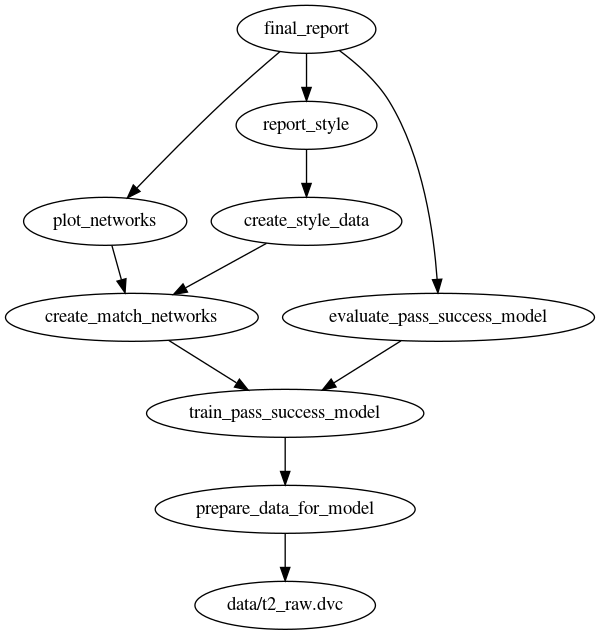
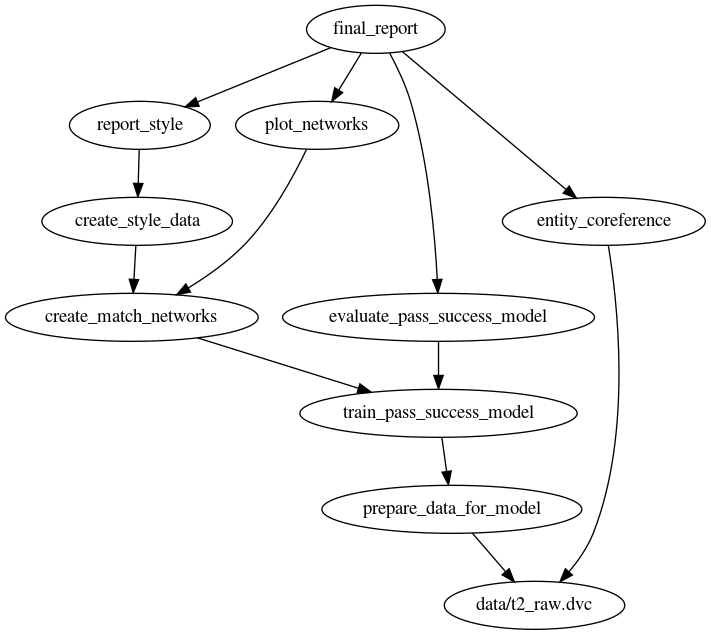
init entity coref element

diff --git a/src/final_report.py b/src/final_report.py
@@ -10,12 +10,11 @@ from .pass_success_model.evaluate_model import (
 )
 from .network.present_network import plot_network_pe, network_plot_dir
 from .style.report_style_vars import report_style_pe, ExportedFiles
+from .entity_coreference.run_entity_coreference import coref_example_table_fp, coref_pe
 
 link_base = "https://github.com/endremborza/football-data-research/blob/main/{}#L{}"
 
-
 network_fps = glob.glob(network_plot_dir + "*.svg")
-
 
 figure_dir = os.path.join("reports", "figures")
 out_file = os.path.join("reports", "main_report.md")
@@ -35,17 +34,24 @@ def export_report():
         "result_of_sample_match",
         "style_agged",
         "under_probit",
-        "over_probit"
+        "over_probit",
     ]
     style_table_dic = {k: open(getattr(ExportedFiles, k)).read() for k in style_tables}
     metric_table_str = open(metric_table_fp).read()
+    coref_table_str = open(coref_example_table_fp).read()
 
     with open(frame_fp) as fp:
         report_frame = fp.read()
 
     with open(out_file, "w") as fp:
         fp.write(
-            report_frame.format(**{**style_table_dic, "metric_table": metric_table_str})
+            report_frame.format(
+                **{
+                    **style_table_dic,
+                    "metric_table": metric_table_str,
+                    "coref_table": coref_table_str,
+                }
+            )
         )
 
     dag_base = "\n".join(
@@ -65,6 +71,7 @@ report_pe = PipelineElement(
         eval_pass_model_pe,
         plot_network_pe,
         report_style_pe,
+        coref_pe,
         "reports/main_report_frame.md",
     ],
     out_nonchache=figure_dir,

diff --git a/src/entity_coreference/run_entity_coreference.py b/src/entity_coreference/run_entity_coreference.py
@@ -1,0 +1,23 @@
+import os
+
+from ..data_loaders import t2_dir
+from ..dvc_util import PipelineElement
+
+
+entity_coreference_report_dir = os.path.join("reports", "entity_coreference")
+coref_example_table_fp = os.path.join(entity_coreference_report_dir, "eg_table.html")
+
+
+def dump_ecref():
+    os.makedirs(entity_coreference_report_dir, exist_ok=True)
+    with open(coref_example_table_fp, "w") as fp:
+        ...
+    # TODO
+
+
+coref_pe = PipelineElement(
+    name="entity_coreference",
+    runner=dump_ecref,
+    output_path=entity_coreference_report_dir,
+    dependency_list=[t2_dir],
+)

diff --git a/src/__init__.py b/src/__init__.py
@@ -6,4 +6,5 @@ from .pass_success_model.prepare_data_for_modelling import prep_pass_model_pe
 from .pass_success_model.run_pass_success_model import run_pass_model_pe
 from .style.create_style_vars import create_style_data_pe
 from .style.report_style_vars import report_style_pe
+from .entity_coreference.run_entity_coreference import coref_pe
 from .final_report import report_pe

diff --git a/reports/main_report_frame.md b/reports/main_report_frame.md
@@ -229,9 +229,47 @@ and in the top third:
 
 {over_probit}
 
+with the coefficient for `opposition rigidity` only significant in
+the top third case.
+
 ### Possible paths
+
+There are many possible causal models that are capable of producing 
+data like this. To list a few, with some explanation:
+
+- Teams develop a specific style of play 
+and certain styles suit certain opponents better.
+  - the key to wictory _is_ the difference in style
+- Some teams are more adaptive in style than others, 
+and the ones who can not adapt to a fluid playing style
+against an opponent with high pass success rate, lose.
+  - the key to victory is adaptability
+- The causal path is actually reversed: 
+a teams performance appears more rigid, when the team is losing
+more prominently against a side with accurate passing
+  - these style metrics have no impact on winning chances
+- players with better technical ability pass more accurately, 
+and when facing good players, other players more 
+likely produce a rigid performance.
+  - the key to victory is technical ability
+
+The point of this section is to find out which of these, or possible other
+causal explanation is most likely to generate data like the one we observed.
+
+To answer this, the data must be extended first
 
 ## Entity Coreference
 
+[this](https://github.com/endremborza/encoref) WIP package is used
+for entity coreference, mainly to match players.
+
+Matching is not a straightforward tasks, as lot of the names of teams or
+players dont match closely, so a sophisticated algorithm is needed
+to match these entities. A few examples can be seen in the next table, 
+of the difficult to match, but coreferent entities.
+
+{coref_table}
 
 ## Pipeline
+
+[entry points for pipeline elements](dvcdag.md)

diff --git a/reports/main_report.md b/reports/main_report.md
@@ -552,9 +552,47 @@ and in the top third:
 </tr>
 </table>
 
+with the coefficient for `opposition rigidity` only significant in
+the top third case.
+
 ### Possible paths
+
+There are many possible causal models that are capable of producing 
+data like this. To list a few, with some explanation:
+
+- Teams develop a specific style of play 
+and certain styles suit certain opponents better.
+  - the key to wictory _is_ the difference in style
+- Some teams are more adaptive in style than others, 
+and the ones who can not adapt to a fluid playing style
+against an opponent with high pass success rate, lose.
+  - the key to victory is adaptability
+- The causal path is actually reversed: 
+a teams performance appears more rigid, when the team is losing
+more prominently against a side with accurate passing
+  - these style metrics have no impact on winning chances
+- players with better technical ability pass more accurately, 
+and when facing good players, other players more 
+likely produce a rigid performance.
+  - the key to victory is technical ability
+
+The point of this section is to find out which of these, or possible other
+causal explanation is most likely to generate data like the one we observed.
+
+To answer this, the data must be extended first
 
 ## Entity Coreference
 
+[this](https://github.com/endremborza/encoref) WIP package is used
+for entity coreference, mainly to match players.
+
+Matching is not a straightforward tasks, as lot of the names of teams or
+players dont match closely, so a sophisticated algorithm is needed
+to match these entities. A few examples can be seen in the next table, 
+of the difficult to match, but coreferent entities.
+
+
 
 ## Pipeline
+
+[entry points for pipeline elements](dvcdag.md)

diff --git a/reports/dvcdag.md b/reports/dvcdag.md
@@ -5,4 +5,5 @@
 - [evaluate_pass_success_model](https://github.com/endremborza/football-data-research/blob/main/src/pass_success_model/evaluate_model.py#L123)
 - [create_style_data](https://github.com/endremborza/football-data-research/blob/main/src/style/create_style_vars.py#L194)
 - [report_style](https://github.com/endremborza/football-data-research/blob/main/src/style/report_style_vars.py#L162)
-- [final_report](https://github.com/endremborza/football-data-research/blob/main/src/final_report.py#L61)
+- [entity_coreference](https://github.com/endremborza/football-data-research/blob/main/src/entity_coreference/run_entity_coreference.py#L18)
+- [final_report](https://github.com/endremborza/football-data-research/blob/main/src/final_report.py#L67)

diff --git a/README.md b/README.md
@@ -35,4 +35,3 @@ step to a T2 tabular, tidy form in `data/t2_raw` serialized to parquet
 presented in this public repo is a sample dataset based on the scope of
 [this set](https://figshare.com/collections/Soccer_match_event_dataset/4415000/5)
 
-
